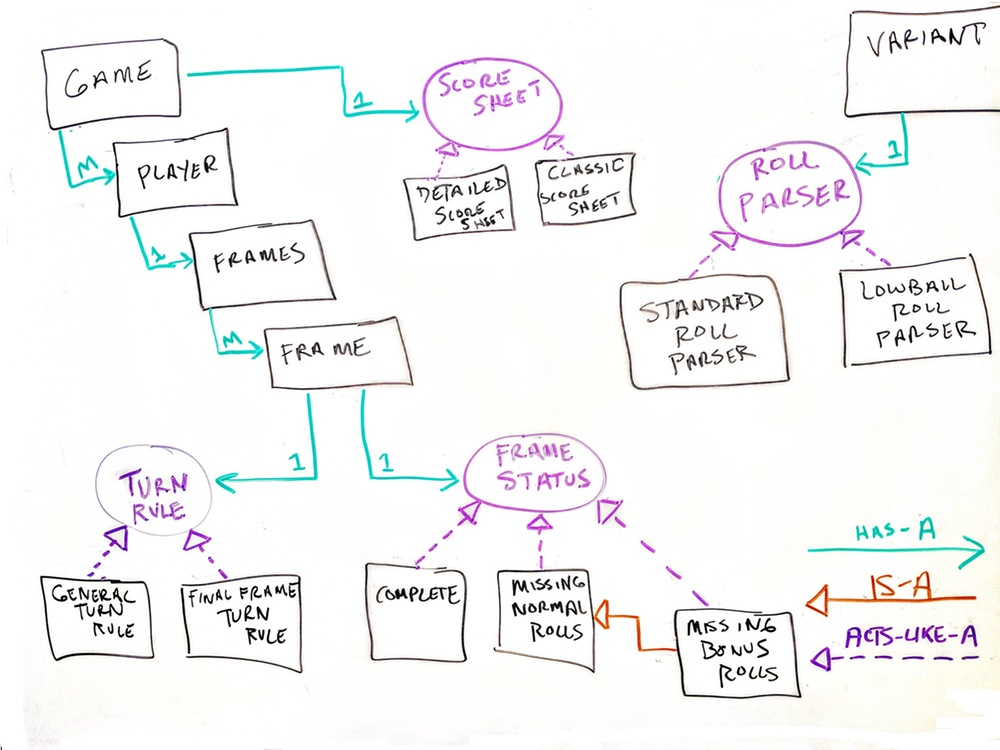
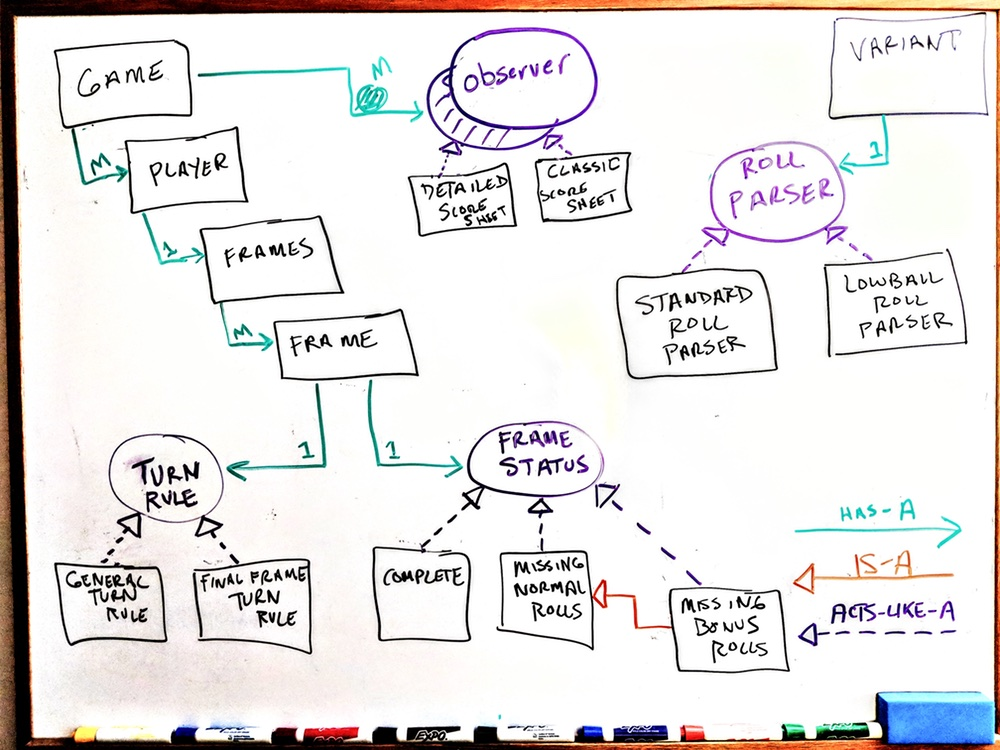
merge refactoring branch

Changed region(s): [[0.0, 0.0, 1.0, 1.0], [0.589, 0.092, 0.62, 0.1227]]

diff --git a/bowling/lib/game.rb b/bowling/lib/game.rb
@@ -1,17 +1,28 @@
+require 'observer'
+
+module ScoresheetRenderingObserver
+  def update(player:, io:)
+    new(frames: player.frames, io: io).render
+  end
+end
+
 class Game
+  include Observable
+
   attr_reader :input, :output, :scoresheet_output,
               :scoresheet_maker,
-              :num_frames, :players
+              :num_frames, :players,
+              :observers
 
-  def initialize(input: $stdin, output: $stdout, scoresheet_output: $stdout,
-                 scoresheet_maker: DetailedScoresheet)
+  def initialize(input: $stdin, output: $stdout, scoresheet_output: $stdout)
     @input  = input
     @output = output
     @scoresheet_output = scoresheet_output
-    @scoresheet_maker  = scoresheet_maker
 
     @players    = initialize_players
     @num_frames = determine_num_frames
+
+    @observers  = []
   end
 
   def play
@@ -26,7 +37,8 @@ class Game
           player = update_player(i, player, roll)
         end
 
-        scoresheet_maker.new(frames: player.frames, io: scoresheet_output).render
+        changed
+        notify_observers(player: player, io: scoresheet_output)
       }
 
       frame_num += 1

diff --git a/bowling/test/game_test.rb b/bowling/test/game_test.rb
@@ -5,6 +5,8 @@ require_relative '../bowling'
 # Simplified (but entirely valid!) scoresheet
 #######################################
 class FakeScoresheet
+  extend ScoresheetRenderingObserver
+
   attr_reader :out
   def initialize(frames:, io: $stdout)
     @out = io
@@ -48,8 +50,8 @@ class GameTest < Minitest::Test
   end
 
   def start_game
-    @game = Game.new(input: @input, output: @output, scoresheet_output: @scoresheet_output,
-                     scoresheet_maker: @scoresheet_maker)
+    @game = Game.new(input: @input, output: @output, scoresheet_output: @scoresheet_output)
+    @game.add_observer(@scoresheet_maker)
   end
 
   def starts_with?(str, io)

diff --git a/bowling/lib/classic_scoresheet.rb b/bowling/lib/classic_scoresheet.rb
@@ -5,6 +5,8 @@ require 'rainbow'
 # Adapt ClassicScoresheet to the 'scoresheet' API
 #######################################
 class ClassicScoresheetAdaptor
+  extend ScoresheetRenderingObserver
+
   attr_reader :scoresheet, :frames, :io
 
   def initialize(frames:, io:)

diff --git a/bowling/lib/detailed_scoresheet.rb b/bowling/lib/detailed_scoresheet.rb
@@ -1,6 +1,8 @@
 class DetailedScoresheet
+  extend ScoresheetRenderingObserver
+
   attr_reader :frames, :out
-  def initialize(frames:, io: $stdout)
+  def initialize(frames: nil, io: $stdout)
     @frames = frames
     @out    = io
   end
